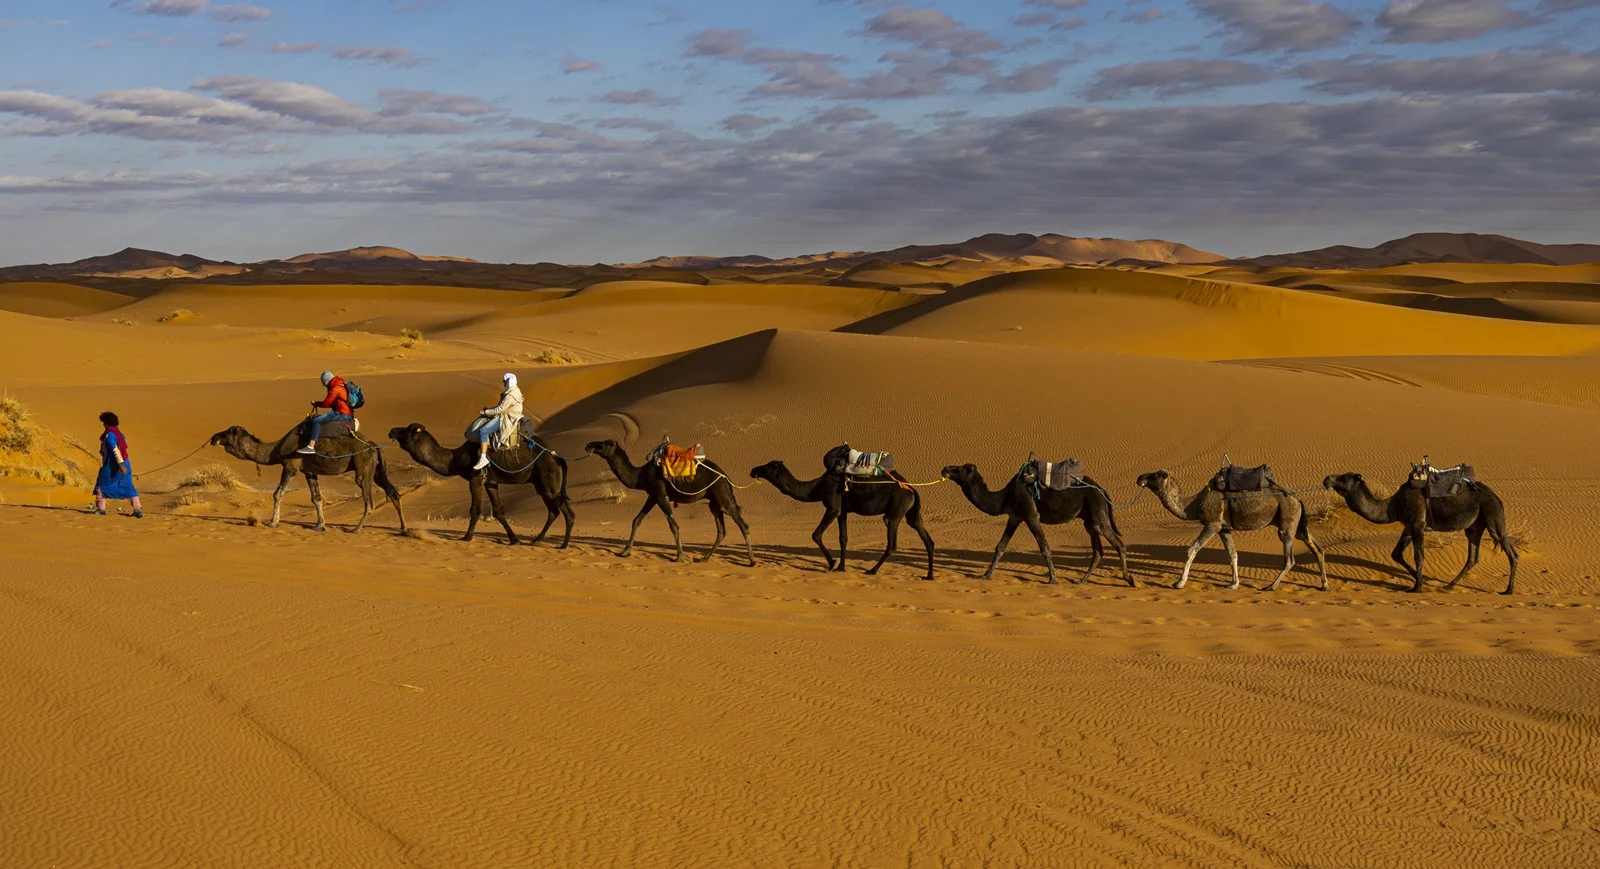
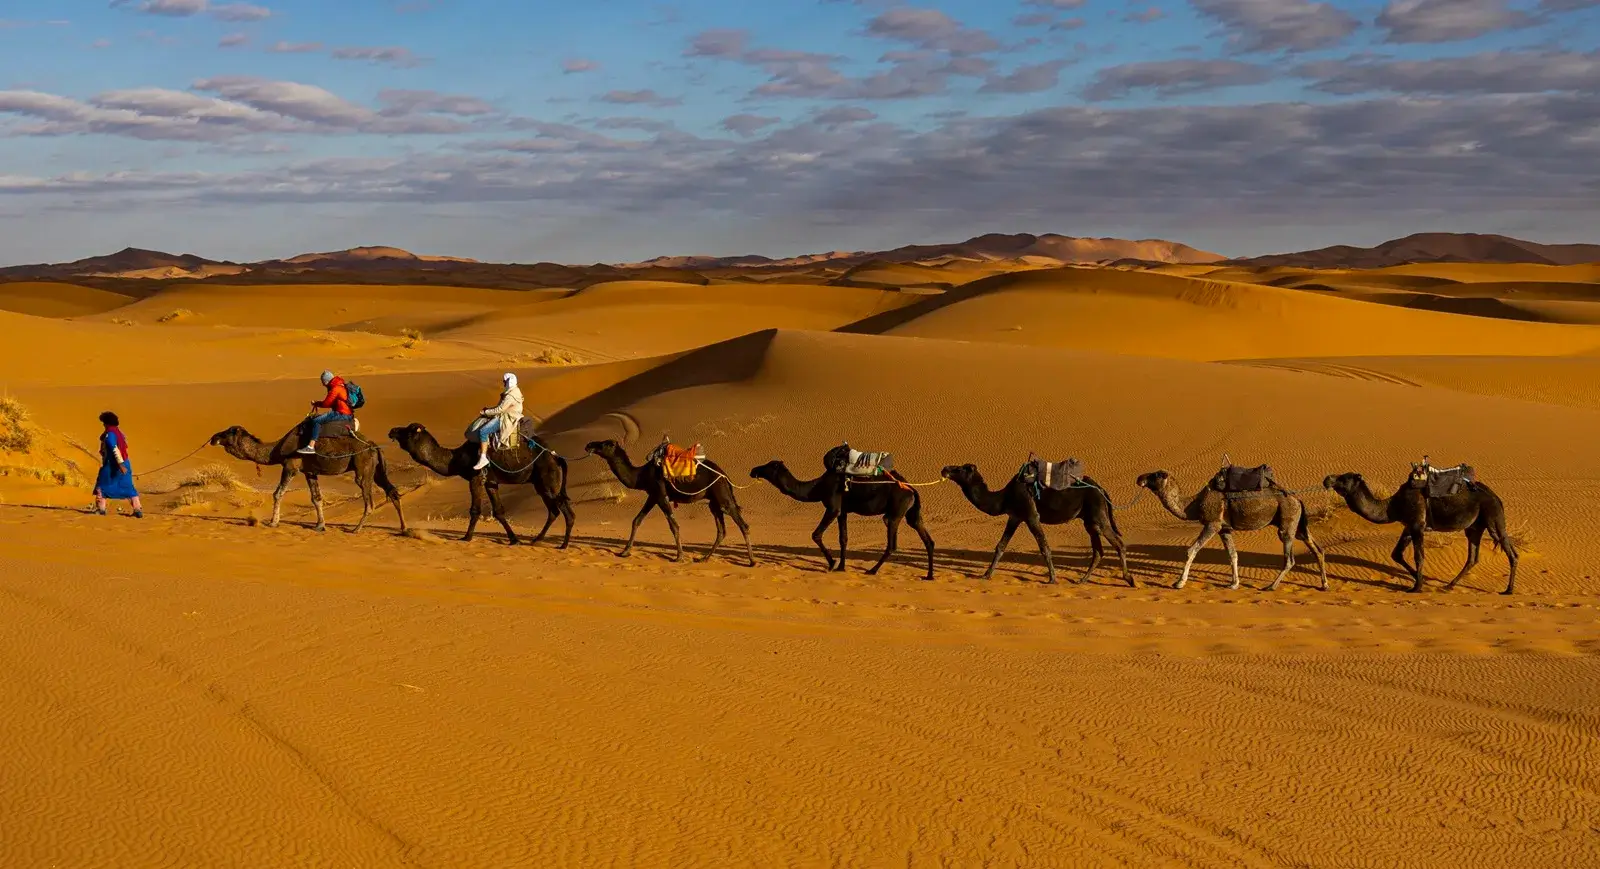
carousel images optimized

diff --git a/public/index.html b/public/index.html
@@ -55,7 +55,7 @@
 </head>
 
 <!--Start of Tawk.to Script-->
-<script defer type="text/javascript">
+<!-- <script defer type="text/javascript">
   var Tawk_API = Tawk_API || {}, Tawk_LoadStart = new Date();
   (function () {
     var s1 = document.createElement("script"), s0 = document.getElementsByTagName("script")[0];
@@ -65,17 +65,17 @@
     s1.setAttribute('crossorigin', '*');
     s0.parentNode.insertBefore(s1, s0);
   })();
-</script>
+</script> -->
 
 <!-- Google tag (gtag.js) -->
-<script async src="https://www.googletagmanager.com/gtag/js?id=G-L53DPKLLSS"></script>
+<!-- <script async src="https://www.googletagmanager.com/gtag/js?id=G-L53DPKLLSS"></script>
 <script>
   window.dataLayer = window.dataLayer || [];
   function gtag() { dataLayer.push(arguments); }
   gtag('js', new Date());
 
   gtag('config', 'G-L53DPKLLSS');
-</script>
+</script> -->
 
 <script type="application/ld+json">
   {
